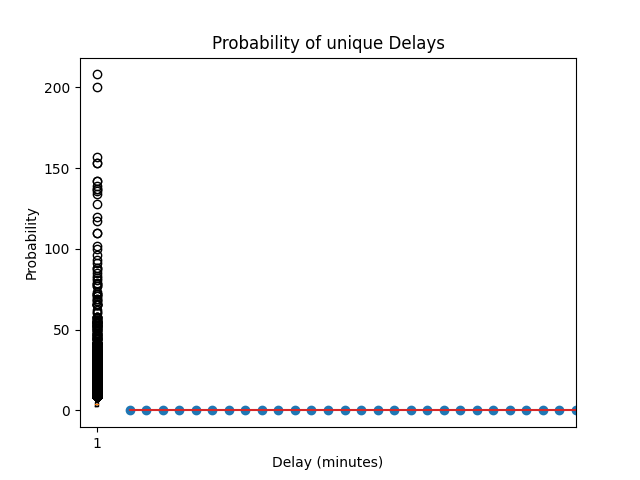
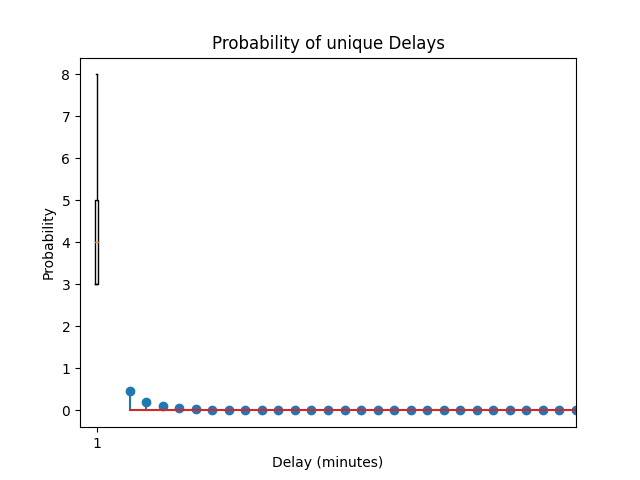
h

Changed region(s): [[0.0312, 0.125, 0.1875, 0.8438], [0.1875, 0.8125, 0.3125, 0.875]]

diff --git a/flaskr/bl/processor.py b/flaskr/bl/processor.py
@@ -117,14 +117,14 @@ def geometric_distribution_60():
     unique_delays, counts = np.unique(delays, return_counts=True)
     prob = counts / total_delays
 
-    mask = unique_delays <= 30
+    mask = unique_delays <= 60
     unique_delays = unique_delays[mask]
     prob = prob[mask]
 
-    plt.stem(unique_delays, prob, markerfmt='o', use_line_collection=False)
+    plt.plot(unique_delays, prob, markerfmt='o', use_line_collection=False)
     plt.title('Probability of unique Delays')
     plt.xlabel('Delay (minutes)')
     plt.ylabel('Probability')
     plt.grid()
-    plt.xlim(0, 30)
+    plt.xlim(0, 60)
     plt.savefig('./flaskr/static/delaydistribution.png')
